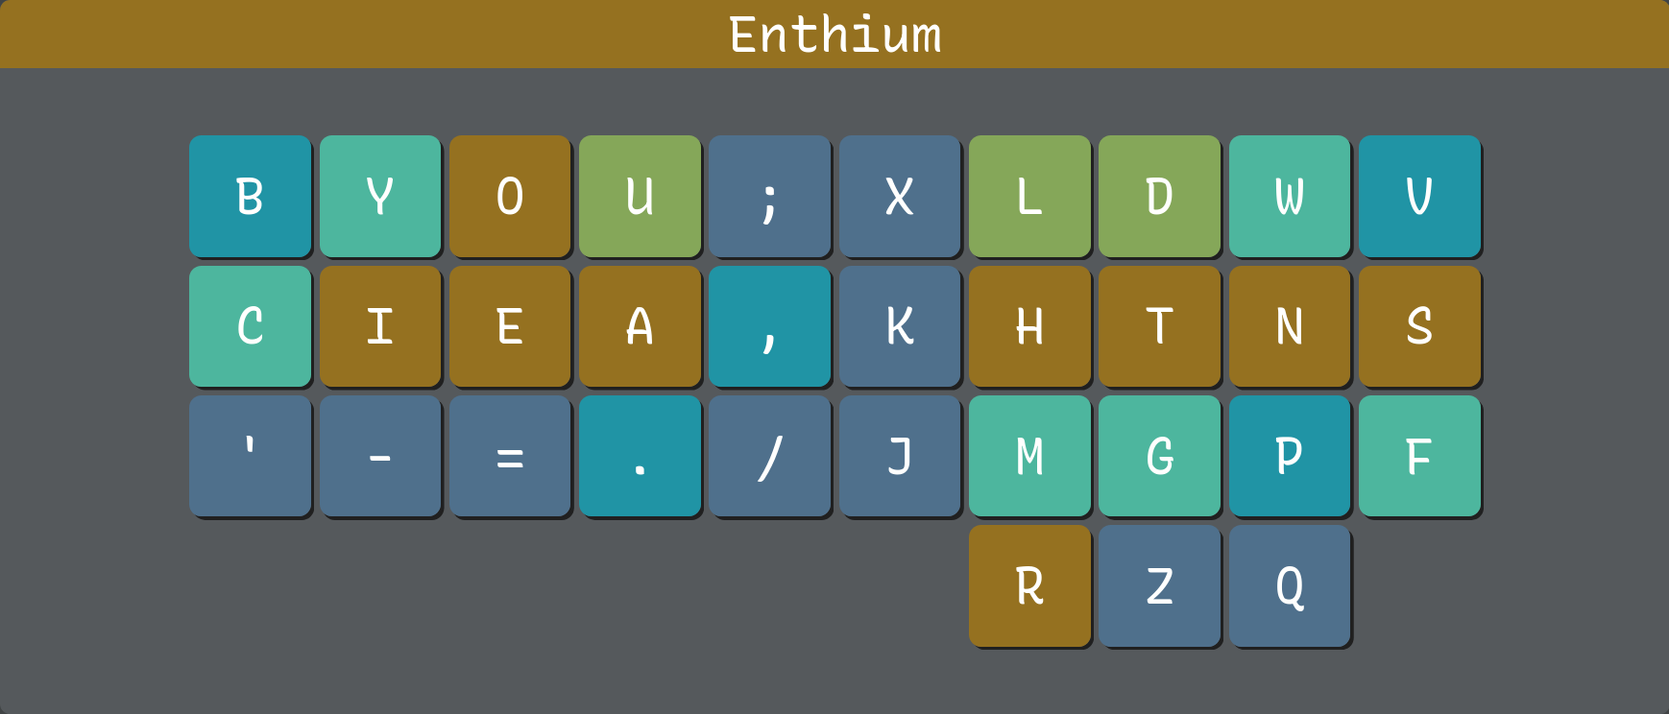
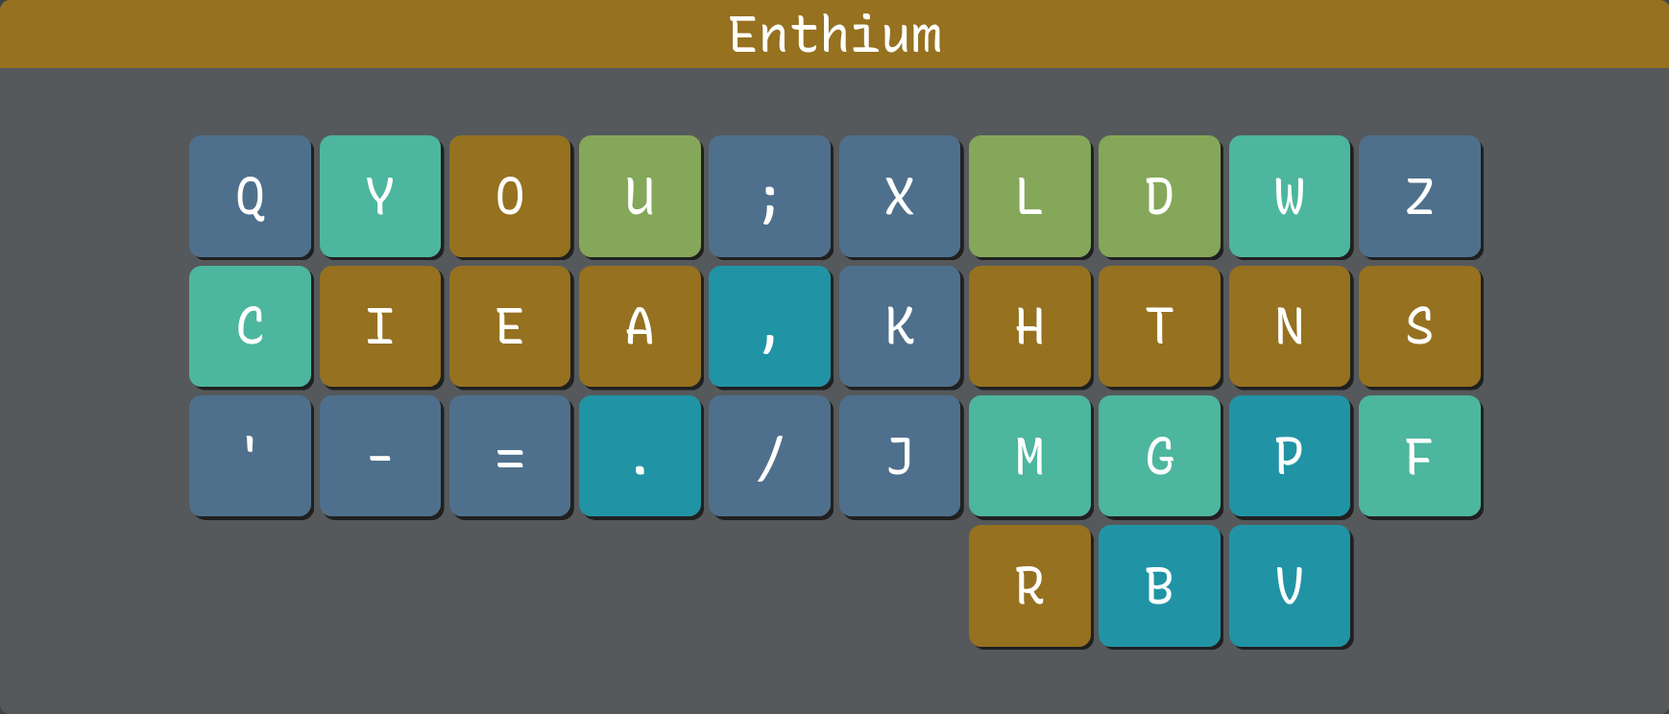
B/V to pinky home lateral, Q/Z to pinky upper row

Changed region(s): [[0.6525, 0.711, 0.8078, 0.9274], [0.8078, 0.1855, 0.901, 0.371], [0.0932, 0.1855, 0.1864, 0.371]]

diff --git a/README.md b/README.md
@@ -19,8 +19,8 @@ days (start Friday and use weekend), to unlock all letters in [KeyBr] training.
 
 ## Layout
 
-      b y o u ; x l d w v
-    z c i e a , k h t n s q
+      q y o u ; x l d w z
+    b c i e a , k h t n s v
       ' - = . / j m g p f
                 r
 
@@ -28,7 +28,7 @@ days (start Friday and use weekend), to unlock all letters in [KeyBr] training.
 
 * [Rationale](#rationale)
   * [Deviation: PF and WV](#deviation-pf-and-wv)
-  * [Deviation: Q and Z](#deviation-q-and-z)
+  * [Deviation: B and V](#deviation-b-and-v)
 * [Performance](#performance)
   * [Cyanophage analyzer](#cyanophage-analyzer)
   * [KeySolve analyzer](#keysolve-analyzer)
@@ -43,7 +43,6 @@ days (start Friday and use weekend), to unlock all letters in [KeyBr] training.
 ## Rationale
 
 * Q and Z are split apart onto different hands for balance and symmetry.
-  Q is placed on the consonant hand (like Engram) to avoid one-handed QU.
 
 * Apostrophe is away (on a different finger entirely) from YOU and I so
   it can be typed without same-finger bigrams such as `you'd` and `I'd`.
@@ -88,48 +87,57 @@ I'm _so glad_ this experiment worked out because it makes the layout a lot more
 comfortable for me in practice and it would also further reduce the barrier to
 entry for others seeking to switch over to Enthium from the Engrammer layout. :)
 
-### Deviation: Q and Z
+### Deviation: B and V
 
-Q and Z are swapped to be like Engram (with Q typed by the right pinky finger)
-in order to avoid one-handed QU sequences (in favor of hand alternation) which
-overwork the left pinky finger during [KeyBr] training and actual usage alike.
+B and V are rotated out from the upper row to the home row lateral in order to
+avoid reaching up with short pinky fingers or those [weakened by convention](
+https://reddit.com/r/KeyboardLayouts/comments/1fy8nve/_/lqulnww/ ).  Their keys
+are reassigned to the least frequent letters in the English language: Q and Z.
 
-This deviation incurred a modest increase in Oxey's analyzer's Total Redirects
-from 0.350% to 3.389%, along with a decrease in Onehands from 2.206% to 2.091%,
-and a significant increase in the Total Rolls score from 43.816% up to 44.055%.
-Similarly, Cyanophage's Total Word Effort score decreased from 735.9 to 735.1,
-along with a negligible increase in the Effort score from 398.34 up to 398.38,
-and with similarly modest differences in the Trigram Stats score distribution.
-In contrast, there was no change at all in the KeySolve analyzer's statistics!
+In the Cyanophage analyzer, this change reduces Pinky/Ring Scissors from 0.49%
+down to 0.35% (a massive drop!) and Skip Bigrams (2u) from 0.30% down to 0.29%.
+The other analyzers don't fully comprehend the placement of lateral pinky keys,
+as explained in the note at the top of each analyzer's respective subheading,
+but Oxey's analyzer reports a notable reduction in SFBs from 0.829% to 0.818%.
 
 ## Performance
 
 ### [Cyanophage analyzer][cNT]
 
+> **NOTE:** This analyzer currently has a limitation where it only supports
+> placing a letter on the left thumb and not on the right, so this layout is
+> mirrored horizontally for analysis.  Mirroring doesn't affect the results.
+
 ![Screenshot](stats/enthium/cyanophage.png)
 
 Overall stats:
-* Total Word Effort: 735.1
-* Effort:            398.38
+* Total Word Effort: 748.5
+* Effort:            430.25
 
 Finger usage:
 * Same Finger Bigrams: 0.55%
-* Skip Bigrams (2u):   0.30%
+* Skip Bigrams (2u):   0.29%
 * Lat Stretch Bigrams: 0.20%
-* Pinky/Ring Scissors: 0.49%
+* Pinky/Ring Scissors: 0.35%
 
 Trigram stats:
-* alt:             37.30%
-* bigram roll in:  29.06%
-* bigram roll out: 14.88%
-* other:           9.08%
-* alt sfs:         5.07%
-* redirect:        1.80%
-* roll in:         1.37%
-* weak redirect:   1.31%
-* roll out:        0.14%
+* alt:             37.47%
+* bigram roll in:  28.99%
+* bigram roll out: 14.71%
+* other:           9.07%
+* alt sfs:         5.08%
+* redirect:        1.94%
+* roll in:         1.36%
+* weak redirect:   1.24%
+* roll out:        0.13%
 
 ### [KeySolve analyzer](https://clemenpine.github.io/keysolve-web/)
+
+> **NOTE:** This analyzer currently doesn't support placing letters on lateral
+> home row pinky keys such as the traditional CapsLock key and the apostrophe,
+> so these results may not be accurate.  For instance, the SFB percentage here
+> assumes that R B V are all typed by the thumb whereas they're all really on
+> different fingers: with R on right thumb, B on left pinky, V on right pinky.
 
 ![Screenshot](stats/enthium/keysolve1.png)
 ![Screenshot](stats/enthium/keysolve2.png)
@@ -137,81 +145,98 @@ Trigram stats:
 
 Overall stats:
 
-    BIGRAMS     SFB: 0.83%      LSB: 0.41%      HSB: 5.64%      FSB: 0.37%
-    SKIPGRAMS   SFS: 6.56%      LSS: 0.85%      HSS: 5.50%      FSS: 0.48%
-    TRIGRAMS    ALT: 40.37%     ROL: 41.16%     ONE: 2.70%      RED: 1.90%
+    BIGRAMS     SFB: 0.98%      LSB: 0.41%      HSB: 4.82%      FSB: 0.36%
+    SKIPGRAMS   SFS: 6.98%      LSS: 0.85%      HSS: 4.70%      FSS: 0.42%
+    TRIGRAMS    ALT: 41.24%     ROL: 40.70%     ONE: 2.47%      RED: 1.66%
 
 Finger usage:
 
-    LEFT        LI: 13.77%      LM: 20.17%      LR: 8.84%       LP: 4.40%
-    RIGHT       RI: 13.12%      RM: 14.59%      RR: 10.60%      RP: 8.95%
-    TOTAL               LH: 47.18%                      RH: 52.82%
+    LEFT        LI: 13.77%      LM: 20.17%      LR: 8.84%       LP: 3.05%
+    RIGHT       RI: 13.12%      RM: 14.59%      RR: 10.60%      RP: 7.94%
+    TOTAL               LH: 45.83%                      RH: 54.17%
 
 Custom source for copy/paste:
 
-    b y o u ; x l d w v
+    q y o u ; x l d w z
     c i e a , k h t n s
     ' - = . / j m g p f
-    r z q
+    r b v
 
 ### [Oxey's analyzer](https://oxey.dev/playground/index.html)
+
+> **NOTE:** This analyzer currently doesn't support placing letters on lateral
+> home row pinky keys such as the traditional CapsLock key and the apostrophe,
+> so these results may not be accurate.  For instance, the SFB percentage here
+> assumes that B and V are typed by the left thumb whereas they're really on
+> different fingers: with B typed by the left pinky and V by the right pinky.
 
 ![Screenshot](stats/enthium/oxey.png)
 
 Overall stats:
-* Sfb:              0.829%
-* Dsfb:             6.534%
+* Sfb:              0.818%
+* Dsfb:             6.236%
 * Lsb:              0.319%
-* Inrolls:          29.183%
-* Outrolls:         14.872%
-* Total Rolls:      44.055%
-* Onehands:         2.091%
-* Alternates:       34.062%
-* Alternates (sfs): 8.035%
-* Total Alternates: 42.096%
-* Redirects:        2.146%
-* BadRedirects:     1.243%
-* Total Redirects:  3.389%
-* Other:            8.369%
+* Inrolls:          29.408%
+* Outrolls:         15.867%
+* Total Rolls:      45.274%
+* Onehands:         2.343%
+* Alternates:       31.891%
+* Alternates (sfs): 7.270%
+* Total Alternates: 39.161%
+* Redirects:        3.838%
+* BadRedirects:     1.024%
+* Total Redirects:  4.862%
+* Other:            8.359%
 * Invalid:          0.001%
 
 Finger usage:
 
-    finger 0:   5.02%   finger 9:       9.56%
+    finger 0:   3.63%   finger 9:       8.60% 
     finger 1:   9.25%   finger 8:       10.65%
     finger 2:   19.30%  finger 7:       14.56%
     finger 3:   13.11%  finger 6:       12.33%
 
-    Left hand:   46.68% Right hand:     47.10%
+    Left hand:   45.29% Right hand:     46.14%
     Left center: 1.211% Right center:   1.189%
 
     Home keys usage: 56.37%
 
 Sfb% per finger:
 
-    finger 0:   0.021%  finger 9:       0.028%
+    finger 0:   0.011%  finger 9:       0.024%
     finger 1:   0.071%  finger 8:       0.100%
     finger 2:   0.122%  finger 7:       0.051%
     finger 3:   0.322%  finger 6:       0.114%
 
 ### Comparison
 
+> **NOTE:** Oxey's analyzer currently doesn't support placing letters on lateral
+> home row pinky keys such as the traditional CapsLock key and the apostrophe,
+> so these results may not be accurate.  For instance, the SFB percentage here
+> assumes that B and V are typed by the left thumb whereas they're really on
+> different fingers: with B typed by the left pinky and V by the right pinky.
+> Instead, consider the [Cyanophage analyzer's results](#cyanophage-analyzer)
+> because it takes into account lateral pinky keys and one thumb letter key.
+
 The [keyboard layout community][rKL] commonly recommends [Pascal Getreuer's
 guide and comparison table][PGt] as a starting point for layout exploration,
 and you'll see that Enthium is among the best (statistically) layouts there:
 
-* 0.829% SFBs -- second place; same as Recurva 🥈
-* 0.319% LSBs -- first place; beats entire table! 🥇
-* 44.055% rolls -- beats MTGAP, Graphite, BEAKL-19, Engram, Dvorak, Halmak
-* 3.389% redirects -- surpassed only by Nerps, Graphite, Gallium, BEAKL-19
-* 5.35% pinky off -- beats Engram and Halmak
+* 0.818% SFBs -- wins 🥈 second place; surpassed by Focal
+* 0.319% LSBs -- wins 🥇 first place; beats the entire table!
+* 45.274% rolls -- beats Nerps, Gallium, MTGAP, Graphite, Dvorak, Halmak, etc.
+* 4.862% redirects -- beats MTGAP, Sturdy, Recurva, APTv3, Canary, Colemak, etc.
+* 2.80% pinky off _excluding_ lateral -- beats Graphite, Canary, Gallium, MTGAP, etc.
+  * `Q` (0.10%) + `'` (0.48%) + `Z` (0.10%) + `F` (2.12%)
+* 5.35% pinky off _including_ lateral -- beats Engram, Halmak; surpassed by the rest
+  * `Q` (0.10%) + `'` (0.48%) + `Z` (0.10%) + `F` (2.12%) + `B` (1.49%) + `V` (1.06%)
 
 [rKL]: https://www.reddit.com/r/KeyboardLayouts/
 [PGt]: https://getreuer.info/posts/keyboards/alt-layouts/index.html#which-alt-keyboard-layout-should-i-learn
 
 For completeness, I've tabulated all [statistics for this and related layouts]( stats/ ):
 
-[cNT]: https://cyanophage.github.io/playground.html?layout=vwdlx%3Buoyb%5Csnthk%2Caeiczfpgmj%2F.%3D-%27qr&mode=ergo&lan=english
+[cNT]: https://cyanophage.github.io/playground.html?layout=zwdlx%3Buoyq%5Csnthk%2Caeicbfpgmj%2F.%3D-%27vr&mode=ergo&lan=english
 [cPM]: https://cyanophage.github.io/playground.html?layout=fpdlx%3Buoybzsnthk%2Caeicqvwgmj-.%27%3D%2F%5Cr&mode=ergo&lan=english
 [cNG]: https://cyanophage.github.io/playground.html?layout=byou%27%3Bldwvzciea%2C.htsnqgxjk-%2Frmfp%5C%5E&mode=ergo&lan=english
 [cDV]: https://cyanophage.github.io/playground.html?layout=%27%2C.pyfgcrl%2Faoeuidhtns-%3Bqjkxbmwvz%5C%5E&mode=ergo&lan=english
@@ -219,79 +244,79 @@ For completeness, I've tabulated all [statistics for this and related layouts]( 
 
 | Analyzer   | Category  | Statistic           | [Enthium][cNT] | [Promethium][cPM] | [Engrammer][cNG] | [Dvorak][cDV] | [Colemak-DH][cCD] |
 | ---------- | --------- | ------------------- | -------------- | ----------------- | ---------------- | ------------- | ----------------- |
-| Oxey's     | Bigrams   | SFB                 | *0.829%*       | 0.868%            | 1.511%           | 2.779%        | 1.367%            |
-| Oxey's     | Bigrams   | DSFB                | 6.534%         | 6.761%            | 7.620%           | 6.979%        | 8.767%            |
-| Oxey's     | Bigrams   | LSB                 | *0.319%*       | 0.404%            | 0.671%           | 1.255%        | 1.975%            |
-| Oxey's     | Trigrams  | Inrolls             | 29.183%        | 29.333%           | 28.273%          | 23.820%       | 25.173%           |
-| Oxey's     | Trigrams  | Outrolls            | 14.872%        | 14.526%           | 14.050%          | 15.104%       | 20.940%           |
-| Oxey's     | Trigrams  | Total Rolls         | *44.055%*      | 43.858%           | 42.323%          | 38.924%       | 46.113%           |
-| Oxey's     | Trigrams  | Onehands            | 2.091%         | 2.189%            | 2.146%           | 0.624%        | 2.484%            |
-| Oxey's     | Trigrams  | Alternates          | 34.062%        | 33.770%           | 32.483%          | 35.769%       | 22.913%           |
-| Oxey's     | Trigrams  | Alternates (SFS)    | 8.035%         | 8.205%            | 8.752%           | 8.787%        | 7.461%            |
-| Oxey's     | Trigrams  | Total Alternates    | 42.096%        | 41.974%           | 41.235%          | 44.556%       | 30.375%           |
-| Oxey's     | Trigrams  | Redirects           | 2.146%         | 2.273%            | 3.103%           | 2.639%        | 9.081%            |
-| Oxey's     | Trigrams  | BadRedirects        | 1.243%         | 1.236%            | 1.386%           | 0.818%        | 1.498%            |
-| Oxey's     | Trigrams  | Total Redirects     | *3.389%*       | 3.509%            | 4.489%           | 3.458%        | 10.579%           |
-| Oxey's     | Trigrams  | Other               | 8.369%         | 8.468%            | 9.806%           | 12.437%       | 9.202%            |
+| Oxey's     | Bigrams   | SFB                 | 0.818%         | 0.868%            | 1.511%           | 2.779%        | 1.367%            |
+| Oxey's     | Bigrams   | DSFB                | 6.236%         | 6.761%            | 7.620%           | 6.979%        | 8.767%            |
+| Oxey's     | Bigrams   | LSB                 | 0.319%         | 0.404%            | 0.671%           | 1.255%        | 1.975%            |
+| Oxey's     | Trigrams  | Inrolls             | 29.408%        | 29.333%           | 28.273%          | 23.820%       | 25.173%           |
+| Oxey's     | Trigrams  | Outrolls            | 15.867%        | 14.526%           | 14.050%          | 15.104%       | 20.940%           |
+| Oxey's     | Trigrams  | Total Rolls         | 45.274%        | 43.858%           | 42.323%          | 38.924%       | 46.113%           |
+| Oxey's     | Trigrams  | Onehands            | 2.343%         | 2.189%            | 2.146%           | 0.624%        | 2.484%            |
+| Oxey's     | Trigrams  | Alternates          | 31.891%        | 33.770%           | 32.483%          | 35.769%       | 22.913%           |
+| Oxey's     | Trigrams  | Alternates (SFS)    | 7.270%         | 8.205%            | 8.752%           | 8.787%        | 7.461%            |
+| Oxey's     | Trigrams  | Total Alternates    | 39.161%        | 41.974%           | 41.235%          | 44.556%       | 30.375%           |
+| Oxey's     | Trigrams  | Redirects           | 3.838%         | 2.273%            | 3.103%           | 2.639%        | 9.081%            |
+| Oxey's     | Trigrams  | BadRedirects        | 1.024%         | 1.236%            | 1.386%           | 0.818%        | 1.498%            |
+| Oxey's     | Trigrams  | Total Redirects     | 4.862%         | 3.509%            | 4.489%           | 3.458%        | 10.579%           |
+| Oxey's     | Trigrams  | Other               | 8.359%         | 8.468%            | 9.806%           | 12.437%       | 9.202%            |
 | Oxey's     | Trigrams  | Invalid             | 0.001%         | 0.001%            | 0.001%           | 0.001%        | 1.248%            |
-| Oxey's     | Usage     | Finger 0            | 5.02%          | 9.56%             | 6.58%            | 8.50%         | 8.12%             |
+| Oxey's     | Usage     | Finger 0            | 3.63%          | 9.56%             | 6.58%            | 8.50%         | 8.12%             |
 | Oxey's     | Usage     | Finger 1            | 9.25%          | 10.65%            | 9.21%            | 8.72%         | 8.04%             |
 | Oxey's     | Usage     | Finger 2            | 19.30%         | 14.56%            | 19.47%           | 12.99%        | 11.55%            |
 | Oxey's     | Usage     | Finger 3            | 13.11%         | 12.33%            | 13.35%           | 14.95%        | 19.19%            |
 | Oxey's     | Usage     | Finger 6            | 12.33%         | 13.28%            | 16.04%           | 16.33%        | 18.88%            |
 | Oxey's     | Usage     | Finger 7            | 14.56%         | 19.77%            | 14.93%           | 13.73%        | 15.60%            |
 | Oxey's     | Usage     | Finger 8            | 10.65%         | 9.01%             | 10.31%           | 13.84%        | 10.11%            |
-| Oxey's     | Usage     | Finger 9            | 9.56%          | 4.62%             | 9.90%            | 10.59%        | 7.77%             |
-| Oxey's     | Usage     | Left hand           | 46.68%         | 47.10%            | 48.61%           | 45.16%        | 46.89%            |
-| Oxey's     | Usage     | Right hand          | 47.10%         | 46.68%            | 51.18%           | 54.49%        | 52.36%            |
+| Oxey's     | Usage     | Finger 9            | 8.60%          | 4.62%             | 9.90%            | 10.59%        | 7.77%             |
+| Oxey's     | Usage     | Left hand           | 45.29%         | 47.10%            | 48.61%           | 45.16%        | 46.89%            |
+| Oxey's     | Usage     | Right hand          | 46.14%         | 46.68%            | 51.18%           | 54.49%        | 52.36%            |
 | Oxey's     | Usage     | Left center         | 1.211%         | 1.189%            | 1.765%           | 9.208%        | 4.592%            |
 | Oxey's     | Usage     | Right center        | 1.189%         | 1.384%            | 1.294%           | 7.257%        | 3.393%            |
 | Oxey's     | Usage     | Home keys           | 56.37%         | 56.37%            | 56.37%           | 56.70%        | 62.31%            |
-| Oxey's     | SFB%      | Finger 0            | 0.021%         | 0.028%            | 0.012%           | 0.020%        | 0.041%            |
+| Oxey's     | SFB%      | Finger 0            | 0.011%         | 0.028%            | 0.012%           | 0.020%        | 0.041%            |
 | Oxey's     | SFB%      | Finger 1            | 0.071%         | 0.100%            | 0.089%           | 0.028%        | 0.047%            |
 | Oxey's     | SFB%      | Finger 2            | 0.122%         | 0.051%            | 0.230%           | 0.253%        | 0.186%            |
 | Oxey's     | SFB%      | Finger 3            | 0.322%         | 0.114%            | 0.591%           | 1.075%        | 0.219%            |
 | Oxey's     | SFB%      | Finger 6            | 0.114%         | 0.339%            | 0.380%           | 0.433%        | 0.388%            |
 | Oxey's     | SFB%      | Finger 7            | 0.051%         | 0.185%            | 0.053%           | 0.494%        | 0.341%            |
 | Oxey's     | SFB%      | Finger 8            | 0.100%         | 0.040%            | 0.098%           | 0.256%        | 0.137%            |
-| Oxey's     | SFB%      | Finger 9            | 0.028%         | 0.011%            | 0.058%           | 0.220%        | 0.007%            |
-| KeySolve   | Bigrams   | SFB                 | 0.83%          | 0.94%             | 1.56%            | 2.62%         | 1.49%             |
+| Oxey's     | SFB%      | Finger 9            | 0.024%         | 0.011%            | 0.058%           | 0.220%        | 0.007%            |
+| KeySolve   | Bigrams   | SFB                 | 0.98%          | 0.94%             | 1.56%            | 2.62%         | 1.49%             |
 | KeySolve   | Bigrams   | LSB                 | 0.41%          | 0.45%             | 0.98%            | 1.17%         | 2.21%             |
-| KeySolve   | Bigrams   | HSB                 | 5.64%          | 6.04%             | 3.02%            | 6.11%         | 5.93%             |
-| KeySolve   | Bigrams   | FSB                 | 0.37%          | 0.26%             | 0.30%            | 0.14%         | 0.37%             |
-| KeySolve   | Skipgrams | SFS                 | 6.56%          | 7.02%             | 7.50%            | 7.00%         | 7.95%             |
+| KeySolve   | Bigrams   | HSB                 | 4.82%          | 6.04%             | 3.02%            | 6.11%         | 5.93%             |
+| KeySolve   | Bigrams   | FSB                 | 0.36%          | 0.26%             | 0.30%            | 0.14%         | 0.37%             |
+| KeySolve   | Skipgrams | SFS                 | 6.98%          | 7.02%             | 7.50%            | 7.00%         | 7.95%             |
 | KeySolve   | Skipgrams | LSS                 | 0.85%          | 0.93%             | 1.34%            | 4.48%         | 1.75%             |
-| KeySolve   | Skipgrams | HSS                 | 5.50%          | 6.11%             | 6.91%            | 8.56%         | 6.49%             |
-| KeySolve   | Skipgrams | FSS                 | 0.48%          | 0.78%             | 0.81%            | 1.22%         | 0.78%             |
-| KeySolve   | Trigrams  | ALT                 | 40.37%         | 40.37%            | 39.59%           | 41.70%        | 27.58%            |
-| KeySolve   | Trigrams  | ROL                 | 41.16%         | 40.84%            | 39.35%           | 37.19%        | 42.78%            |
-| KeySolve   | Trigrams  | ONE                 | 2.70%          | 2.66%             | 2.65%            | 0.43%         | 2.45%             |
-| KeySolve   | Trigrams  | RED                 | 1.90%          | 1.78%             | 2.65%            | 2.25%         | 6.74%             |
+| KeySolve   | Skipgrams | HSS                 | 4.70%          | 6.11%             | 6.91%            | 8.56%         | 6.49%             |
+| KeySolve   | Skipgrams | FSS                 | 0.42%          | 0.78%             | 0.81%            | 1.22%         | 0.78%             |
+| KeySolve   | Trigrams  | ALT                 | 41.24%         | 40.37%            | 39.59%           | 41.70%        | 27.58%            |
+| KeySolve   | Trigrams  | ROL                 | 40.70%         | 40.84%            | 39.35%           | 37.19%        | 42.78%            |
+| KeySolve   | Trigrams  | ONE                 | 2.47%          | 2.66%             | 2.65%            | 0.43%         | 2.45%             |
+| KeySolve   | Trigrams  | RED                 | 1.66%          | 1.78%             | 2.65%            | 2.25%         | 6.74%             |
 | KeySolve   | Usage     | LI                  | 13.77%         | 13.91%            | 13.91%           | 14.56%        | 18.82%            |
 | KeySolve   | Usage     | LM                  | 20.17%         | 20.92%            | 20.30%           | 13.96%        | 10.18%            |
 | KeySolve   | Usage     | LR                  | 8.84%          | 8.70%             | 8.83%            | 9.55%         | 7.83%             |
-| KeySolve   | Usage     | LP                  | 4.40%          | 3.64%             | 5.72%            | 8.24%         | 7.63%             |
+| KeySolve   | Usage     | LP                  | 3.05%          | 3.64%             | 5.72%            | 8.24%         | 7.63%             |
 | KeySolve   | Usage     | RI                  | 13.12%         | 13.12%            | 16.52%           | 16.90%        | 20.00%            |
 | KeySolve   | Usage     | RM                  | 14.59%         | 14.59%            | 15.03%           | 13.35%        | 16.91%            |
 | KeySolve   | Usage     | RR                  | 10.60%         | 10.60%            | 10.08%           | 13.36%        | 10.46%            |
-| KeySolve   | Usage     | RP                  | 8.95%          | 8.95%             | 9.47%            | 10.08%        | 8.16%             |
-| KeySolve   | Total     | LH                  | 47.18%         | 47.18%            | 48.75%           | 46.31%        | 44.46%            |
-| KeySolve   | Total     | RH                  | 52.82%         | 52.82%            | 51.25%           | 53.69%        | 55.54%            |
-| Cyanophage | Summary   | Total Word Effort   | 735.1          | 732.3             | 899.8            | 1185.5        | 1048.2            |
-| Cyanophage | Summary   | Effort              | 398.38         | 398.07            | 457.44           | 769.78        | 535.05            |
+| KeySolve   | Usage     | RP                  | 7.94%          | 8.95%             | 9.47%            | 10.08%        | 8.16%             |
+| KeySolve   | Total     | LH                  | 45.83%         | 47.18%            | 48.75%           | 46.31%        | 44.46%            |
+| KeySolve   | Total     | RH                  | 54.17%         | 52.82%            | 51.25%           | 53.69%        | 55.54%            |
+| Cyanophage | Summary   | Total Word Effort   | 748.5          | 732.3             | 899.8            | 1185.5        | 1048.2            |
+| Cyanophage | Summary   | Effort              | 430.25         | 398.07            | 457.44           | 769.78        | 535.05            |
 | Cyanophage | Bigrams   | Same Finger Bigrams | 0.55%          | 0.58%             | 0.99%            | 1.87%         | 0.91%             |
-| Cyanophage | Bigrams   | Skip Bigrams (2u)   | 0.30%          | 0.36%             | 0.39%            | 0.45%         | 0.41%             |
+| Cyanophage | Bigrams   | Skip Bigrams (2u)   | 0.29%          | 0.36%             | 0.39%            | 0.45%         | 0.41%             |
 | Cyanophage | Bigrams   | Lat Stretch Bigrams | 0.20%          | 0.24%             | 0.41%            | 0.80%         | 1.27%             |
-| Cyanophage | Bigrams   | Pinky/Ring Scissors | 0.49%          | 0.42%             | 0.71%            | 0.40%         | 0.65%             |
-| Cyanophage | Trigrams  | Alt                 | 37.30%         | 36.98%            | 35.62%           | 39.08%        | 25.43%            |
-| Cyanophage | Trigrams  | Alt SFS             | 5.07%          | 5.27%             | 5.93%            | 5.85%         | 5.47%             |
-| Cyanophage | Trigrams  | Roll in             | 1.37%          | 1.37%             | 1.82%            | 0.86%         | 1.50%             |
-| Cyanophage | Trigrams  | Roll out            | 0.14%          | 0.11%             | 0.29%            | 0.27%         | 0.98%             |
-| Cyanophage | Trigrams  | Bigram roll in      | 29.06%         | 29.18%            | 28.14%           | 23.51%        | 25.18%            |
-| Cyanophage | Trigrams  | Bigram roll out     | 14.88%         | 14.56%            | 14.03%           | 15.14%        | 21.55%            |
-| Cyanophage | Trigrams  | Redirect            | 1.80%          | 2.03%             | 3.05%            | 2.57%         | 9.22%             |
-| Cyanophage | Trigrams  | Weak redirect       | 1.31%          | 1.30%             | 1.40%            | 0.28%         | 1.52%             |
-| Cyanophage | Trigrams  | Other               | 9.08%          | 9.20%             | 9.72%            | 12.44%        | 9.17%             |
+| Cyanophage | Bigrams   | Pinky/Ring Scissors | 0.35%          | 0.42%             | 0.71%            | 0.40%         | 0.65%             |
+| Cyanophage | Trigrams  | Alt                 | 37.47%         | 36.98%            | 35.62%           | 39.08%        | 25.43%            |
+| Cyanophage | Trigrams  | Alt SFS             | 5.08%          | 5.27%             | 5.93%            | 5.85%         | 5.47%             |
+| Cyanophage | Trigrams  | Roll in             | 1.36%          | 1.37%             | 1.82%            | 0.86%         | 1.50%             |
+| Cyanophage | Trigrams  | Roll out            | 0.13%          | 0.11%             | 0.29%            | 0.27%         | 0.98%             |
+| Cyanophage | Trigrams  | Bigram roll in      | 28.99%         | 29.18%            | 28.14%           | 23.51%        | 25.18%            |
+| Cyanophage | Trigrams  | Bigram roll out     | 14.71%         | 14.56%            | 14.03%           | 15.14%        | 21.55%            |
+| Cyanophage | Trigrams  | Redirect            | 1.94%          | 2.03%             | 3.05%            | 2.57%         | 9.22%             |
+| Cyanophage | Trigrams  | Weak redirect       | 1.24%          | 1.30%             | 1.40%            | 0.28%         | 1.52%             |
+| Cyanophage | Trigrams  | Other               | 9.07%          | 9.20%             | 9.72%            | 12.44%        | 9.17%             |
 
 ## Installation
 
